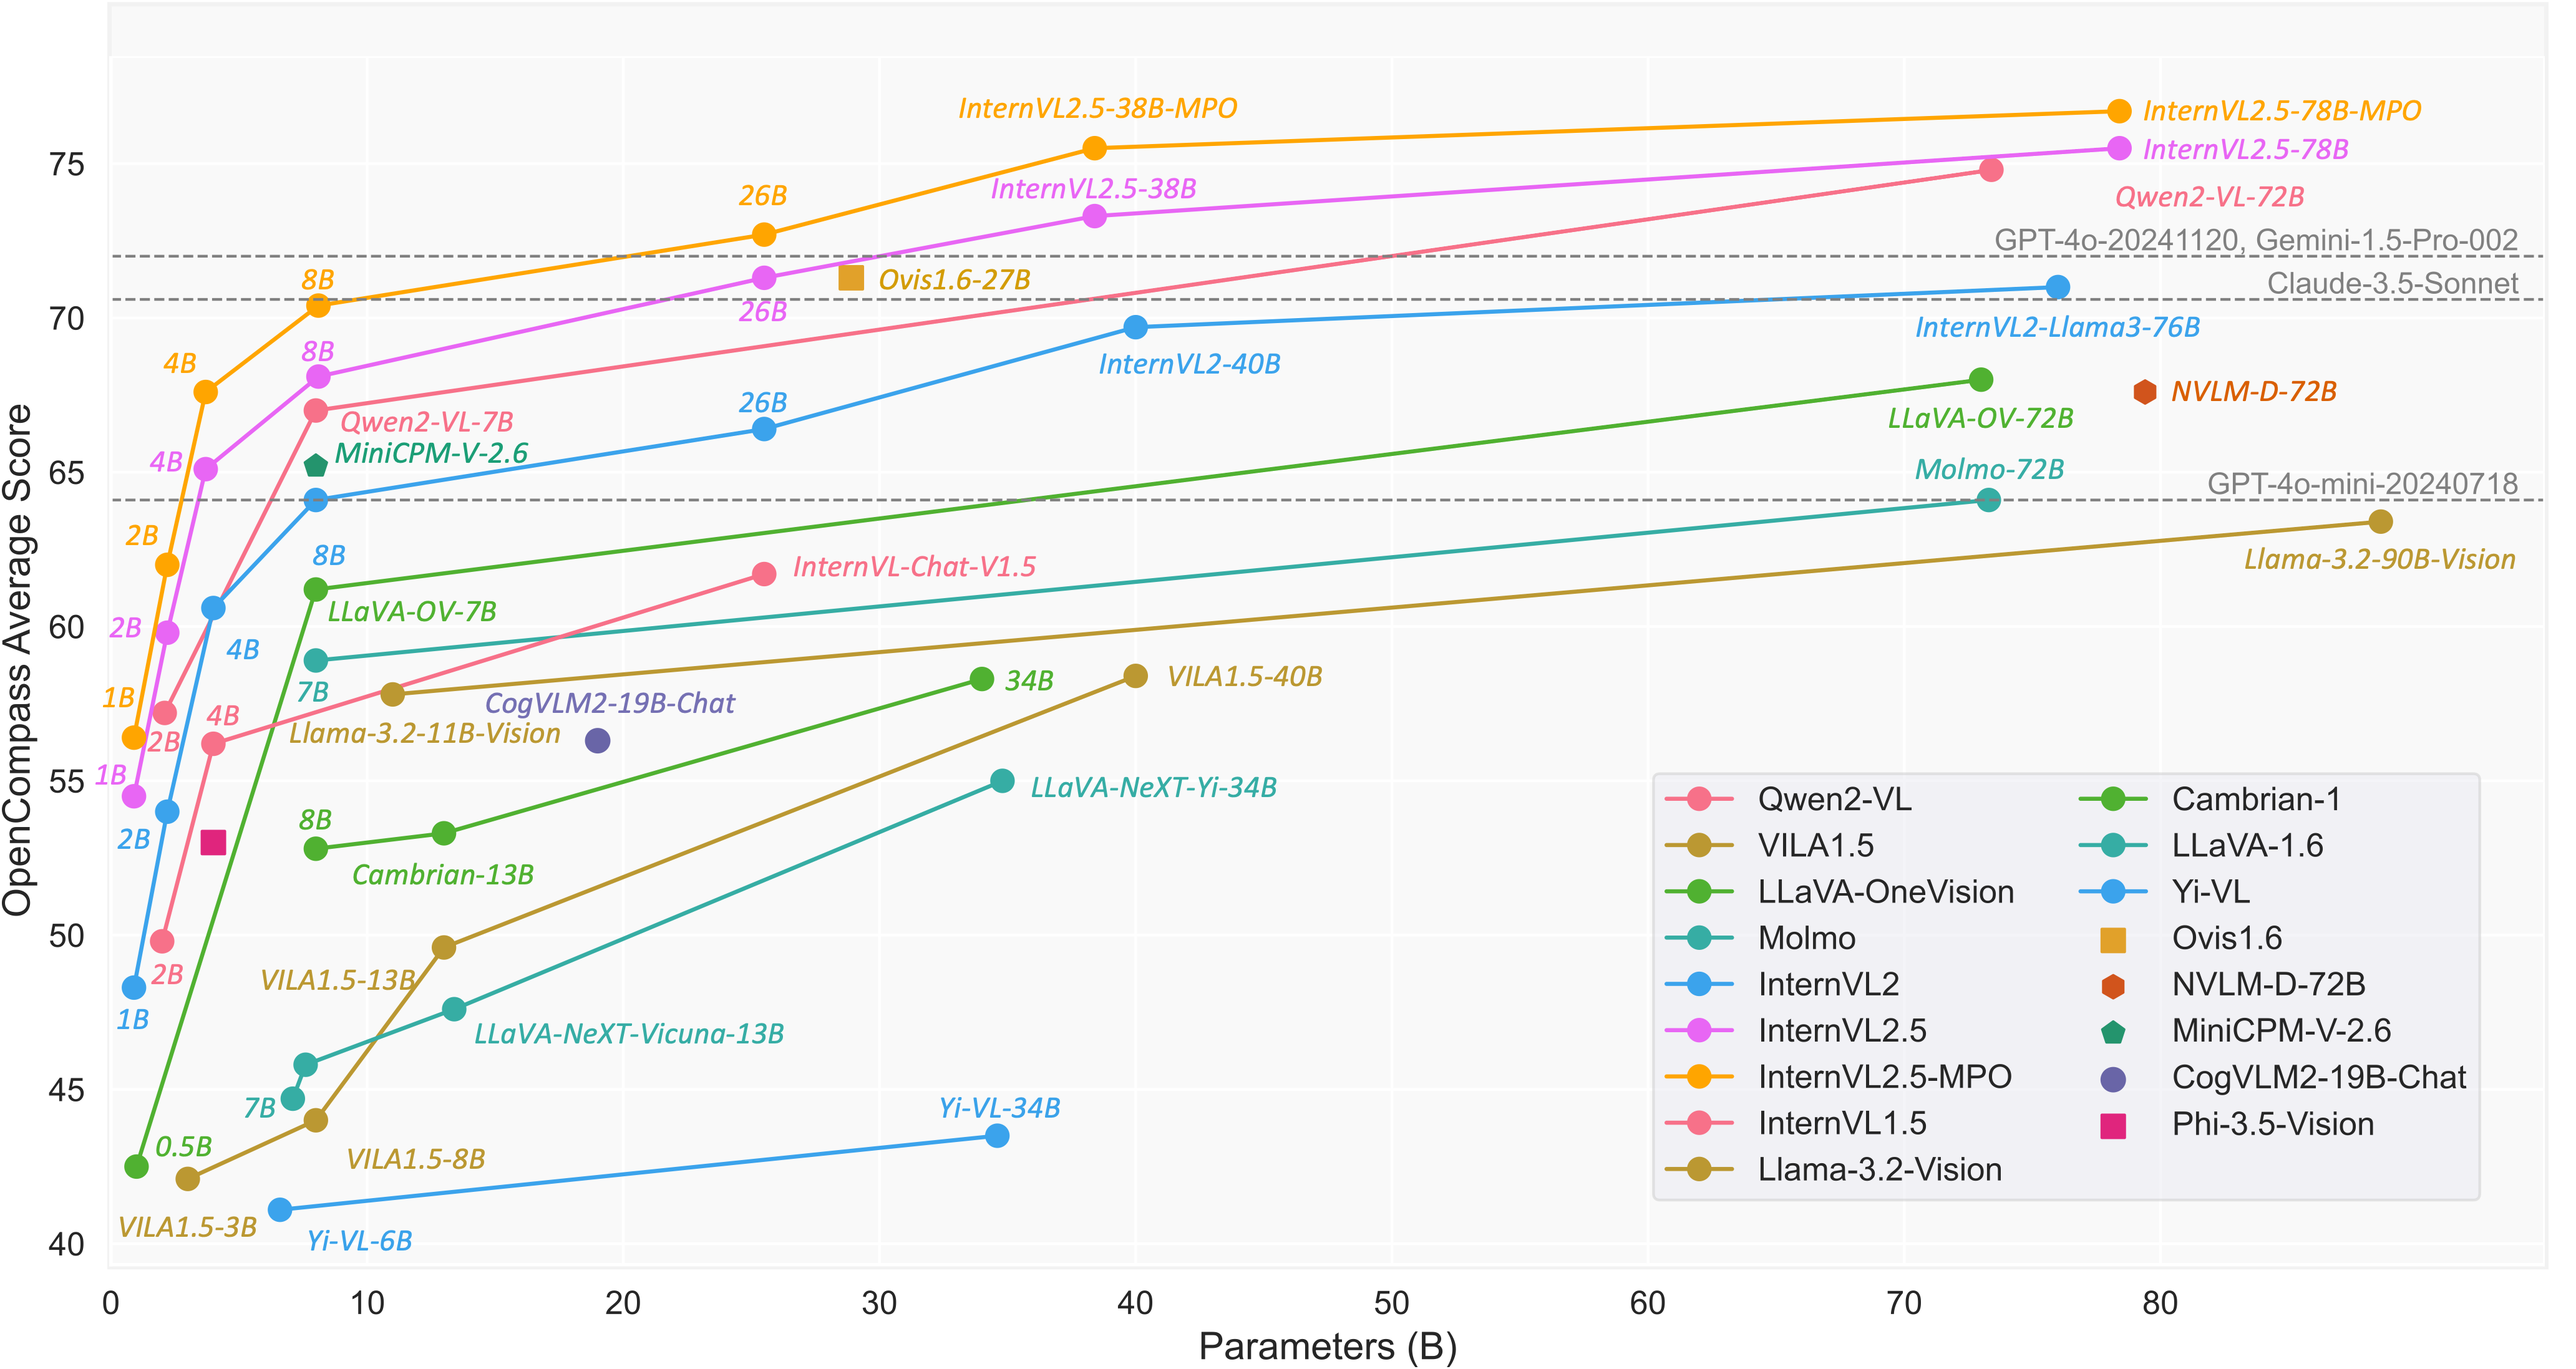
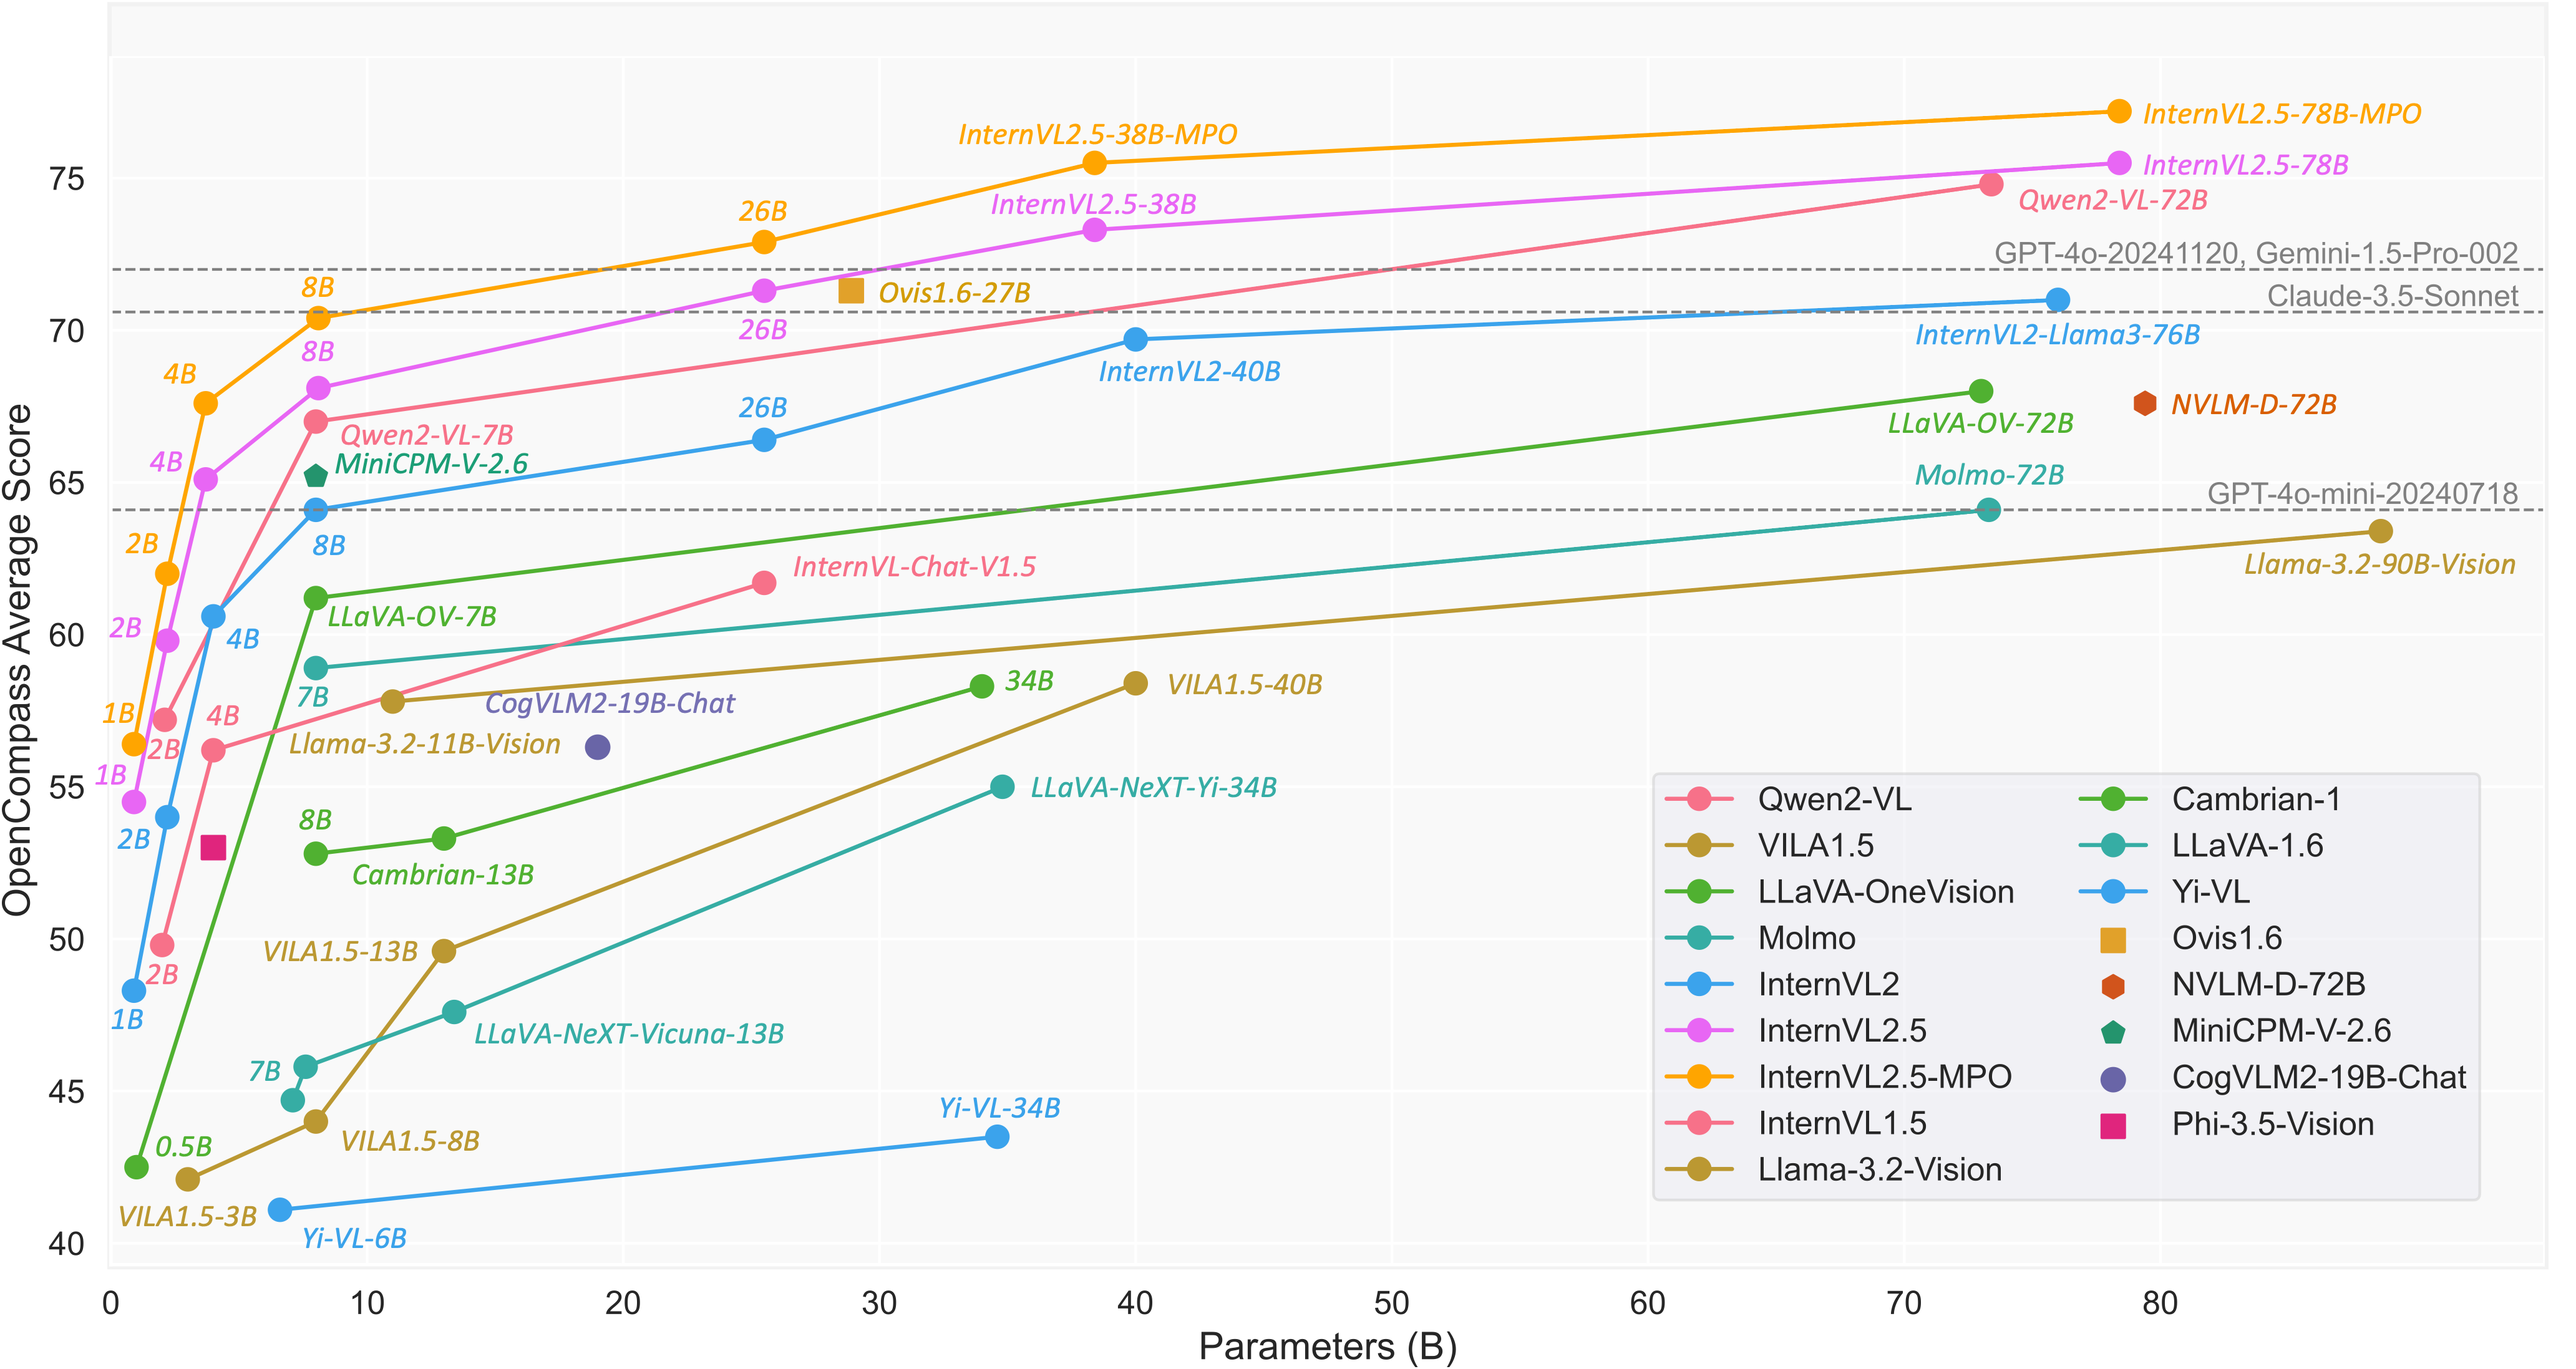
update index.html

diff --git a/blog/2024-12-20-InternVL-2.5-MPO/index.html b/blog/2024-12-20-InternVL-2.5-MPO/index.html
@@ -164,140 +164,6 @@
                         Quick Start]</a>
                 </p>
 
-                <!-- <table>
-                    <thead>
-                        <tr>
-                            <th>Type</th>
-                            <th>Model</th>
-                            <th>Date</th>
-                            <th>HF Link</th>
-                            <th>MS Link</th>
-                            <th>Document</th>
-                        </tr>
-                    </thead>
-                    <tbody>
-
-                        <tr>
-                            <td rowspan="8">Multimodal Large Language Models</td>
-                            <td>InternVL2_5-1B-MPO</td>
-                            <td>2024.12.20</td>
-                            <td><a href="https://huggingface.co/OpenGVLab/InternVL2_5-1B-MPO" rel="nofollow">🤗 link</a>
-                            </td>
-                            <td><a href="https://modelscope.cn/models/OpenGVLab/InternVL2_5-1B-MPO" rel="nofollow">🤖
-                                    link</a>
-                            </td>
-                            <td><a href="https://huggingface.co/OpenGVLab/InternVL2_5-1B-MPO#quick-start"
-                                    rel="nofollow">📖
-                                    doc</a></td>
-                        </tr>
-                        <tr>
-                            <td>InternVL2_5-2B-MPO</td>
-                            <td>2024.12.20</td>
-                            <td><a href="https://huggingface.co/OpenGVLab/InternVL2_5-2B-MPO" rel="nofollow">🤗 link</a>
-                            </td>
-                            <td><a href="https://modelscope.cn/models/OpenGVLab/InternVL2_5-2B-MPO" rel="nofollow">🤖
-                                    link</a>
-                            </td>
-                            <td><a href="https://huggingface.co/OpenGVLab/InternVL2_5-2B-MPO#quick-start"
-                                    rel="nofollow">📖
-                                    doc</a></td>
-                        </tr>
-                        <tr>
-                            <td>InternVL2_5-4B-MPO</td>
-                            <td>2024.12.20</td>
-                            <td><a href="https://huggingface.co/OpenGVLab/InternVL2_5-4B-MPO" rel="nofollow">🤗 link</a>
-                            </td>
-                            <td><a href="https://modelscope.cn/models/OpenGVLab/InternVL2_5-4B-MPO" rel="nofollow">🤖
-                                    link</a>
-                            </td>
-                            <td><a href="https://huggingface.co/OpenGVLab/InternVL2_5-4-MPO#quick-start"
-                                    rel="nofollow">📖
-                                    doc</a></td>
-                        </tr>
-                        <tr>
-                            <td>InternVL2_5-8B-MPO</td>
-                            <td>2024.12.20</td>
-                            <td><a href="https://huggingface.co/OpenGVLab/InternVL2_5-8B-MPO" rel="nofollow">🤗 link</a>
-                            </td>
-                            <td><a href="https://modelscope.cn/models/OpenGVLab/InternVL2_5-8B-MPO" rel="nofollow">🤖
-                                    link</a>
-                            </td>
-                            <td><a href="https://huggingface.co/OpenGVLab/InternVL2_5-8B-MPO#quick-start"
-                                    rel="nofollow">📖
-                                    doc</a></td>
-                        </tr>
-                        <tr>
-                            <td>InternVL2_5-26B-MPO</td>
-                            <td>2024.12.20</td>
-                            <td><a href="https://huggingface.co/OpenGVLab/InternVL2_5-26B-MPO" rel="nofollow">🤗
-                                    link</a>
-                            </td>
-                            <td><a href="https://modelscope.cn/models/OpenGVLab/InternVL2_5-26B-MPO" rel="nofollow">🤖
-                                    link</a></td>
-                            <td><a href="https://huggingface.co/OpenGVLab/InternVL2_5-26B-MPO#quick-start"
-                                    rel="nofollow">📖
-                                    doc</a></td>
-                        </tr>
-                        <tr>
-                            <td>InternVL2_5-38B-MPO</td>
-                            <td>2024.12.20</td>
-                            <td><a href="https://huggingface.co/OpenGVLab/InternVL2_5-38B-MPO" rel="nofollow">🤗
-                                    link</a>
-                            </td>
-                            <td><a href="https://modelscope.cn/models/OpenGVLab/InternVL2_5-38B-MPO" rel="nofollow">🤖
-                                    link</a></td>
-                            <td><a href="https://huggingface.co/OpenGVLab/InternVL2_5-38B-MPO#quick-start"
-                                    rel="nofollow">📖
-                                    doc</a></td>
-                        </tr>
-                        <tr>
-                            <td>InternVL2_5-78B-MPO</td>
-                            <td>2024.12.20</td>
-                            <td><a href="https://huggingface.co/OpenGVLab/InternVL2_5-78B-MPO" rel="nofollow">🤗
-                                    link</a></td>
-                            <td><a href="https://modelscope.cn/models/OpenGVLab/InternVL2_5-78B-MPO" rel="nofollow">🤖
-                                    link</a></td>
-                            <td><a href="https://huggingface.co/OpenGVLab/InternVL2_5-78B-MPO#quick-start"
-                                    rel="nofollow">📖
-                                    doc</a></td>
-                        </tr>
-                        <tr>
-                            <td>InternVL2_5-Pro</td>
-                            <td>-</a></td>
-                            <td>-</a></td>
-                            <td>-</a></td>
-                            <td>-</a></td>
-                        </tr>
-
-                        <tr>
-                            <td rowspan="2">Dataset</td>
-                            <td>
-                                <nobr>MMPR</nobr>
-                            </td>
-                            <td>2024.11.14</td>
-                            <td><a href="https://huggingface.co/datasets/OpenGVLab/MMPR" rel="nofollow">🤗
-                                    link</a>
-                            <td><a href="https://modelscope.cn/datasets/OpenGVLab/MMPR" rel="nofollow">🤖
-                                    link</a></td>
-                            <td><a href="https://internvl.readthedocs.io/en/latest/internvl2.0/preference_optimization.html"
-                                    rel="nofollow">📖 doc</a></td>
-                        </tr>
-                        <tr>
-                            <td>
-                                <nobr>MMPRv1.1</nobr>
-                            </td>
-                            <td>2024.12.20</td>
-                            <td><a href="https://huggingface.co/datasets/OpenGVLab/MMPRv1.1" rel="nofollow">🤗
-                                    link</a>
-                            <td><a href="https://modelscope.cn/datasets/OpenGVLab/MMPRv1.1" rel="nofollow">🤖
-                                    link</a></td>
-                            <td><a href="https://internvl.readthedocs.io/en/latest/internvl2.0/preference_optimization.html"
-                                    rel="nofollow">📖 doc</a></td>
-                        </tr>
-
-                    </tbody>
-                </table> -->
-
                 <table>
                     <thead>
                         <tr>
@@ -379,7 +245,7 @@
                                     rel="nofollow">📖
                                     doc</a></td>
                             <!-- 71.6 -->
-                            <td>72.7 <span style="color: green; font-weight: bold;">(+1.1)</span></td>
+                            <td>72.9 <span style="color: green; font-weight: bold;">(+1.3)</span></td>
                         </tr>
                         <tr>
                             <td>InternVL2_5-38B-MPO</td>
@@ -406,7 +272,7 @@
                                     rel="nofollow">📖
                                     doc</a></td>
                             <!-- 75.2 -->
-                            <td>76.7 <span style="color: green; font-weight: bold;">(+1.5)</span></td>
+                            <td>77.2 <span style="color: green; font-weight: bold;">(+2.0)</span></td>
                         </tr>
                         <tr>
                             <td>InternVL2_5-Pro</td>
@@ -443,7 +309,7 @@
                         capabilities of MLLMs. Specifically, (1) on the data side, we design an automated preference
                         data
                         construction pipeline to create <a
-                            href="https://huggingface.co/datasets/OpenGVLab/MMPR">MMPR</a>, a
+                            href="https://huggingface.co/datasets/OpenGVLab/MMPR-v1.1">MMPR</a>, a
                         high-quality,
                         large-scale multimodal reasoning preference dataset. and (2) on the model side, we explore
                         integrating PO
@@ -816,15 +682,15 @@
                         </tr>
                         <tr>
                             <td>InternVL2-5-26B-MPO</td>
-                            <td>72.7</td>
+                            <td>72.9</td>
                             <td>84.2</td>
-                            <td>67.2</td>
-                            <td>57.7</td>
-                            <td>72.8</td>
-                            <td>55.3</td>
-                            <td>86.2</td>
-                            <td>912</td>
-                            <td>67.1</td>
+                            <td>67.9</td>
+                            <td>57.3</td>
+                            <td>72.2</td>
+                            <td>55.4</td>
+                            <td>86.7</td>
+                            <td>907</td>
+                            <td>68.8</td>
                         </tr>
                         <tr>
                             <td>InternVL2-5-38B</td>
@@ -864,15 +730,15 @@
                         </tr>
                         <tr>
                             <td>InternVL2-5-78B-MPO</td>
-                            <td>76.7</td>
-                            <td>87.3</td>
-                            <td>73.1</td>
-                            <td>68.3</td>
-                            <td>73.8</td>
-                            <td>58.7</td>
+                            <td>77.2</td>
+                            <td>87.8</td>
+                            <td>71.9</td>
+                            <td>68.7</td>
+                            <td>76.5</td>
+                            <td>58.9</td>
                             <td>89.3</td>
-                            <td>912</td>
-                            <td>71.4</td>
+                            <td>907</td>
+                            <td>73.6</td>
                         </tr>
                     </table>
 
